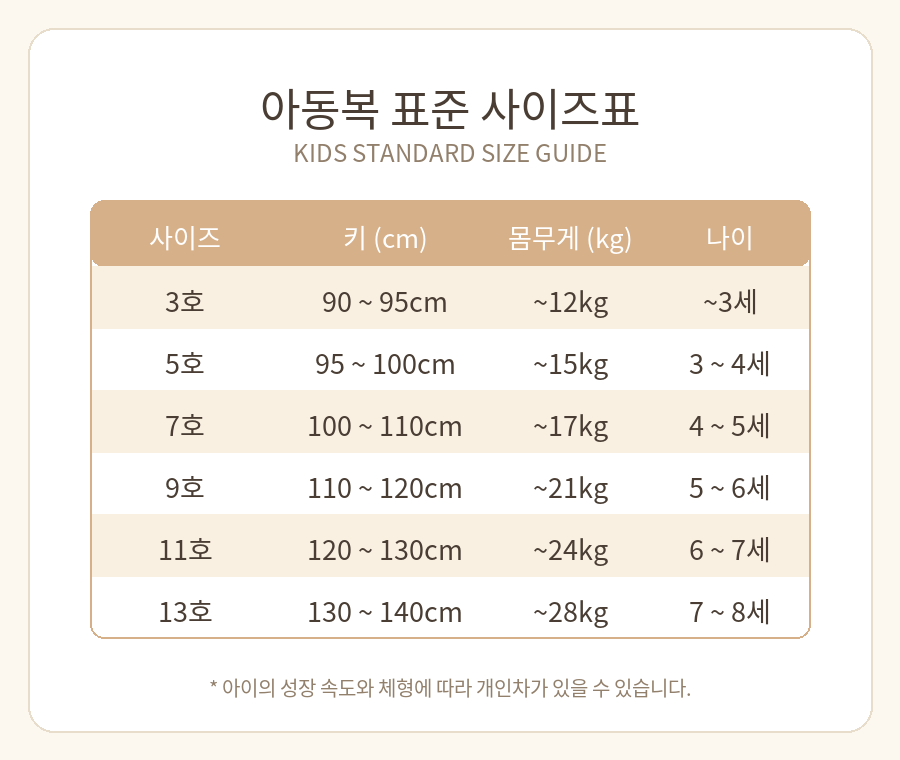
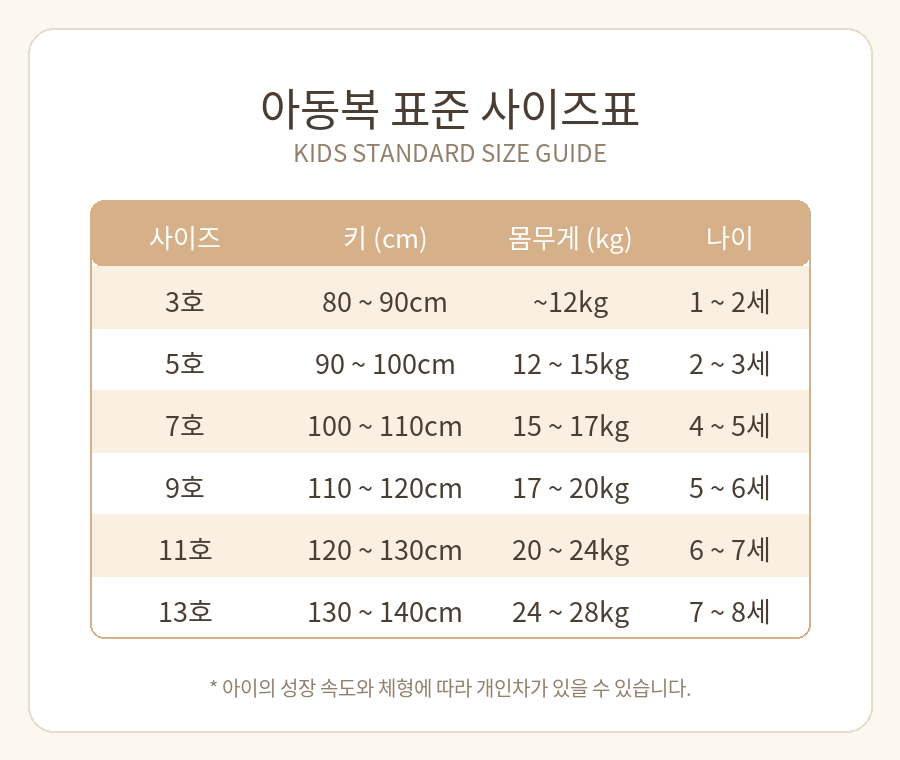
아커 표준 사이즈표 수정본 반영 (3호 80~90cm~13호 130~140cm)

diff --git a/index.html b/index.html
@@ -783,7 +783,7 @@
 })();
 </script>
 
-<script src="products.js?v=202611251148"></script>
+<script src="products.js?v=202611251150"></script>
 <script>
 (function () {
   'use strict';
